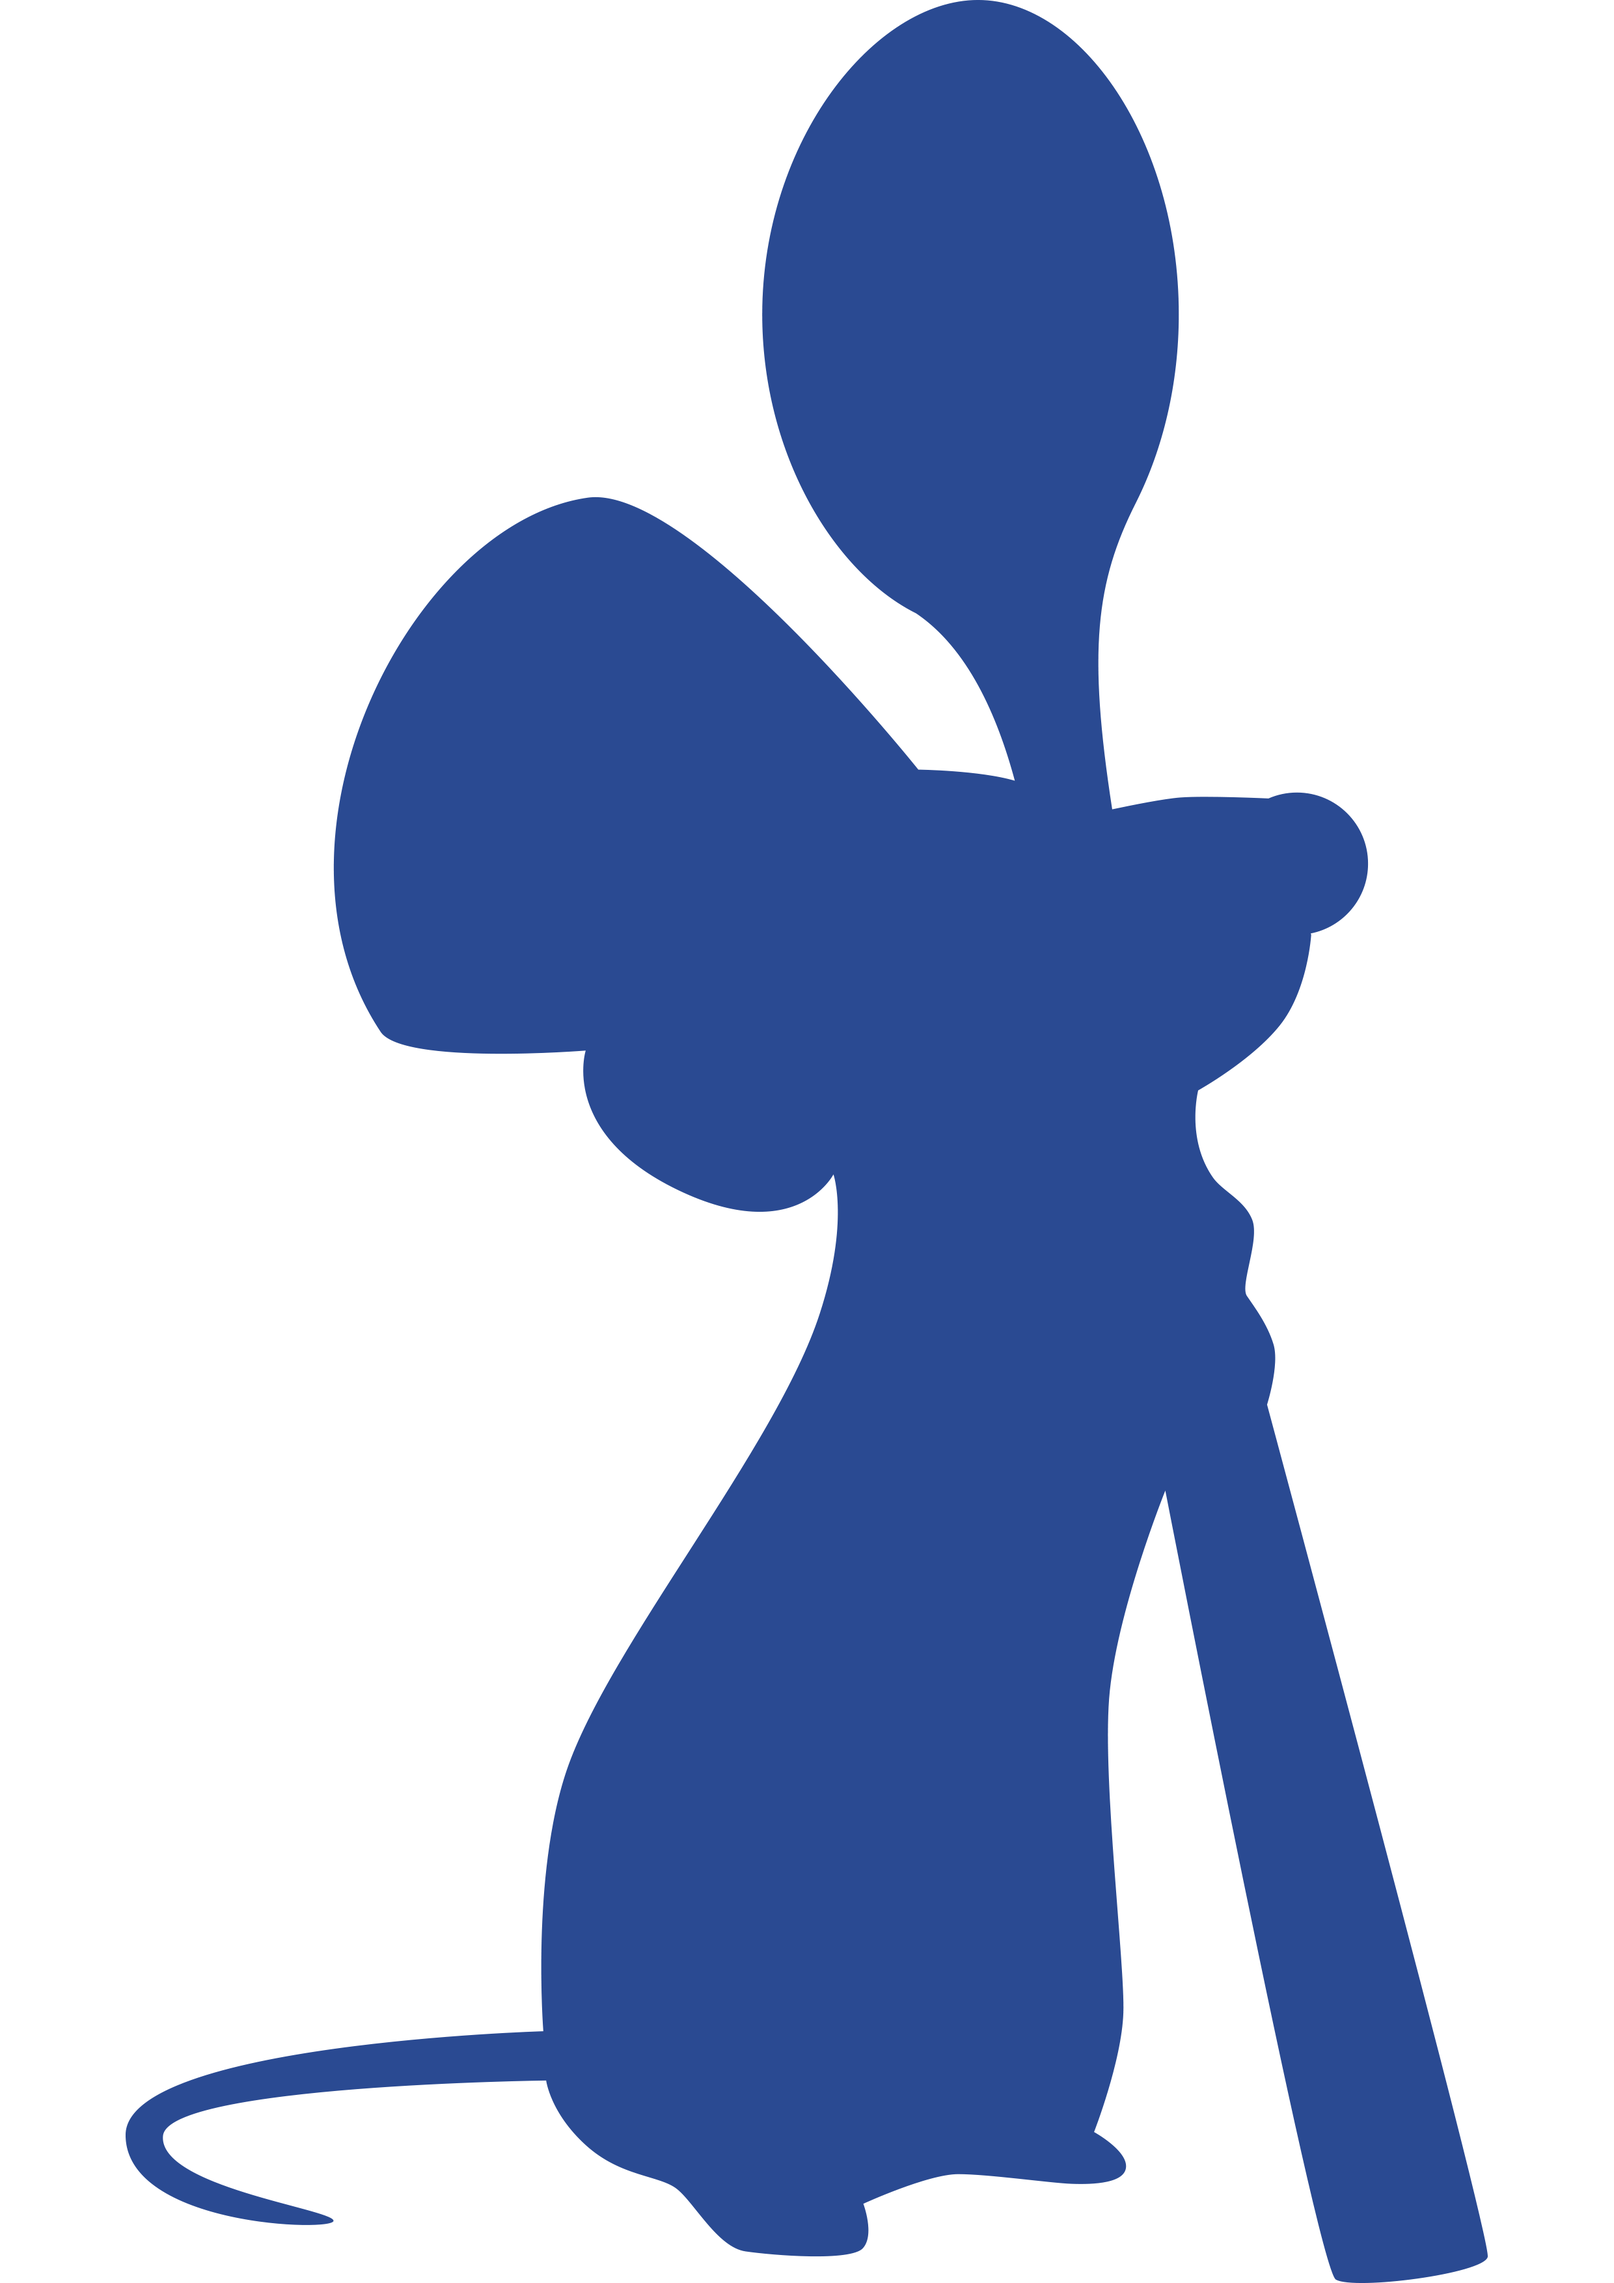
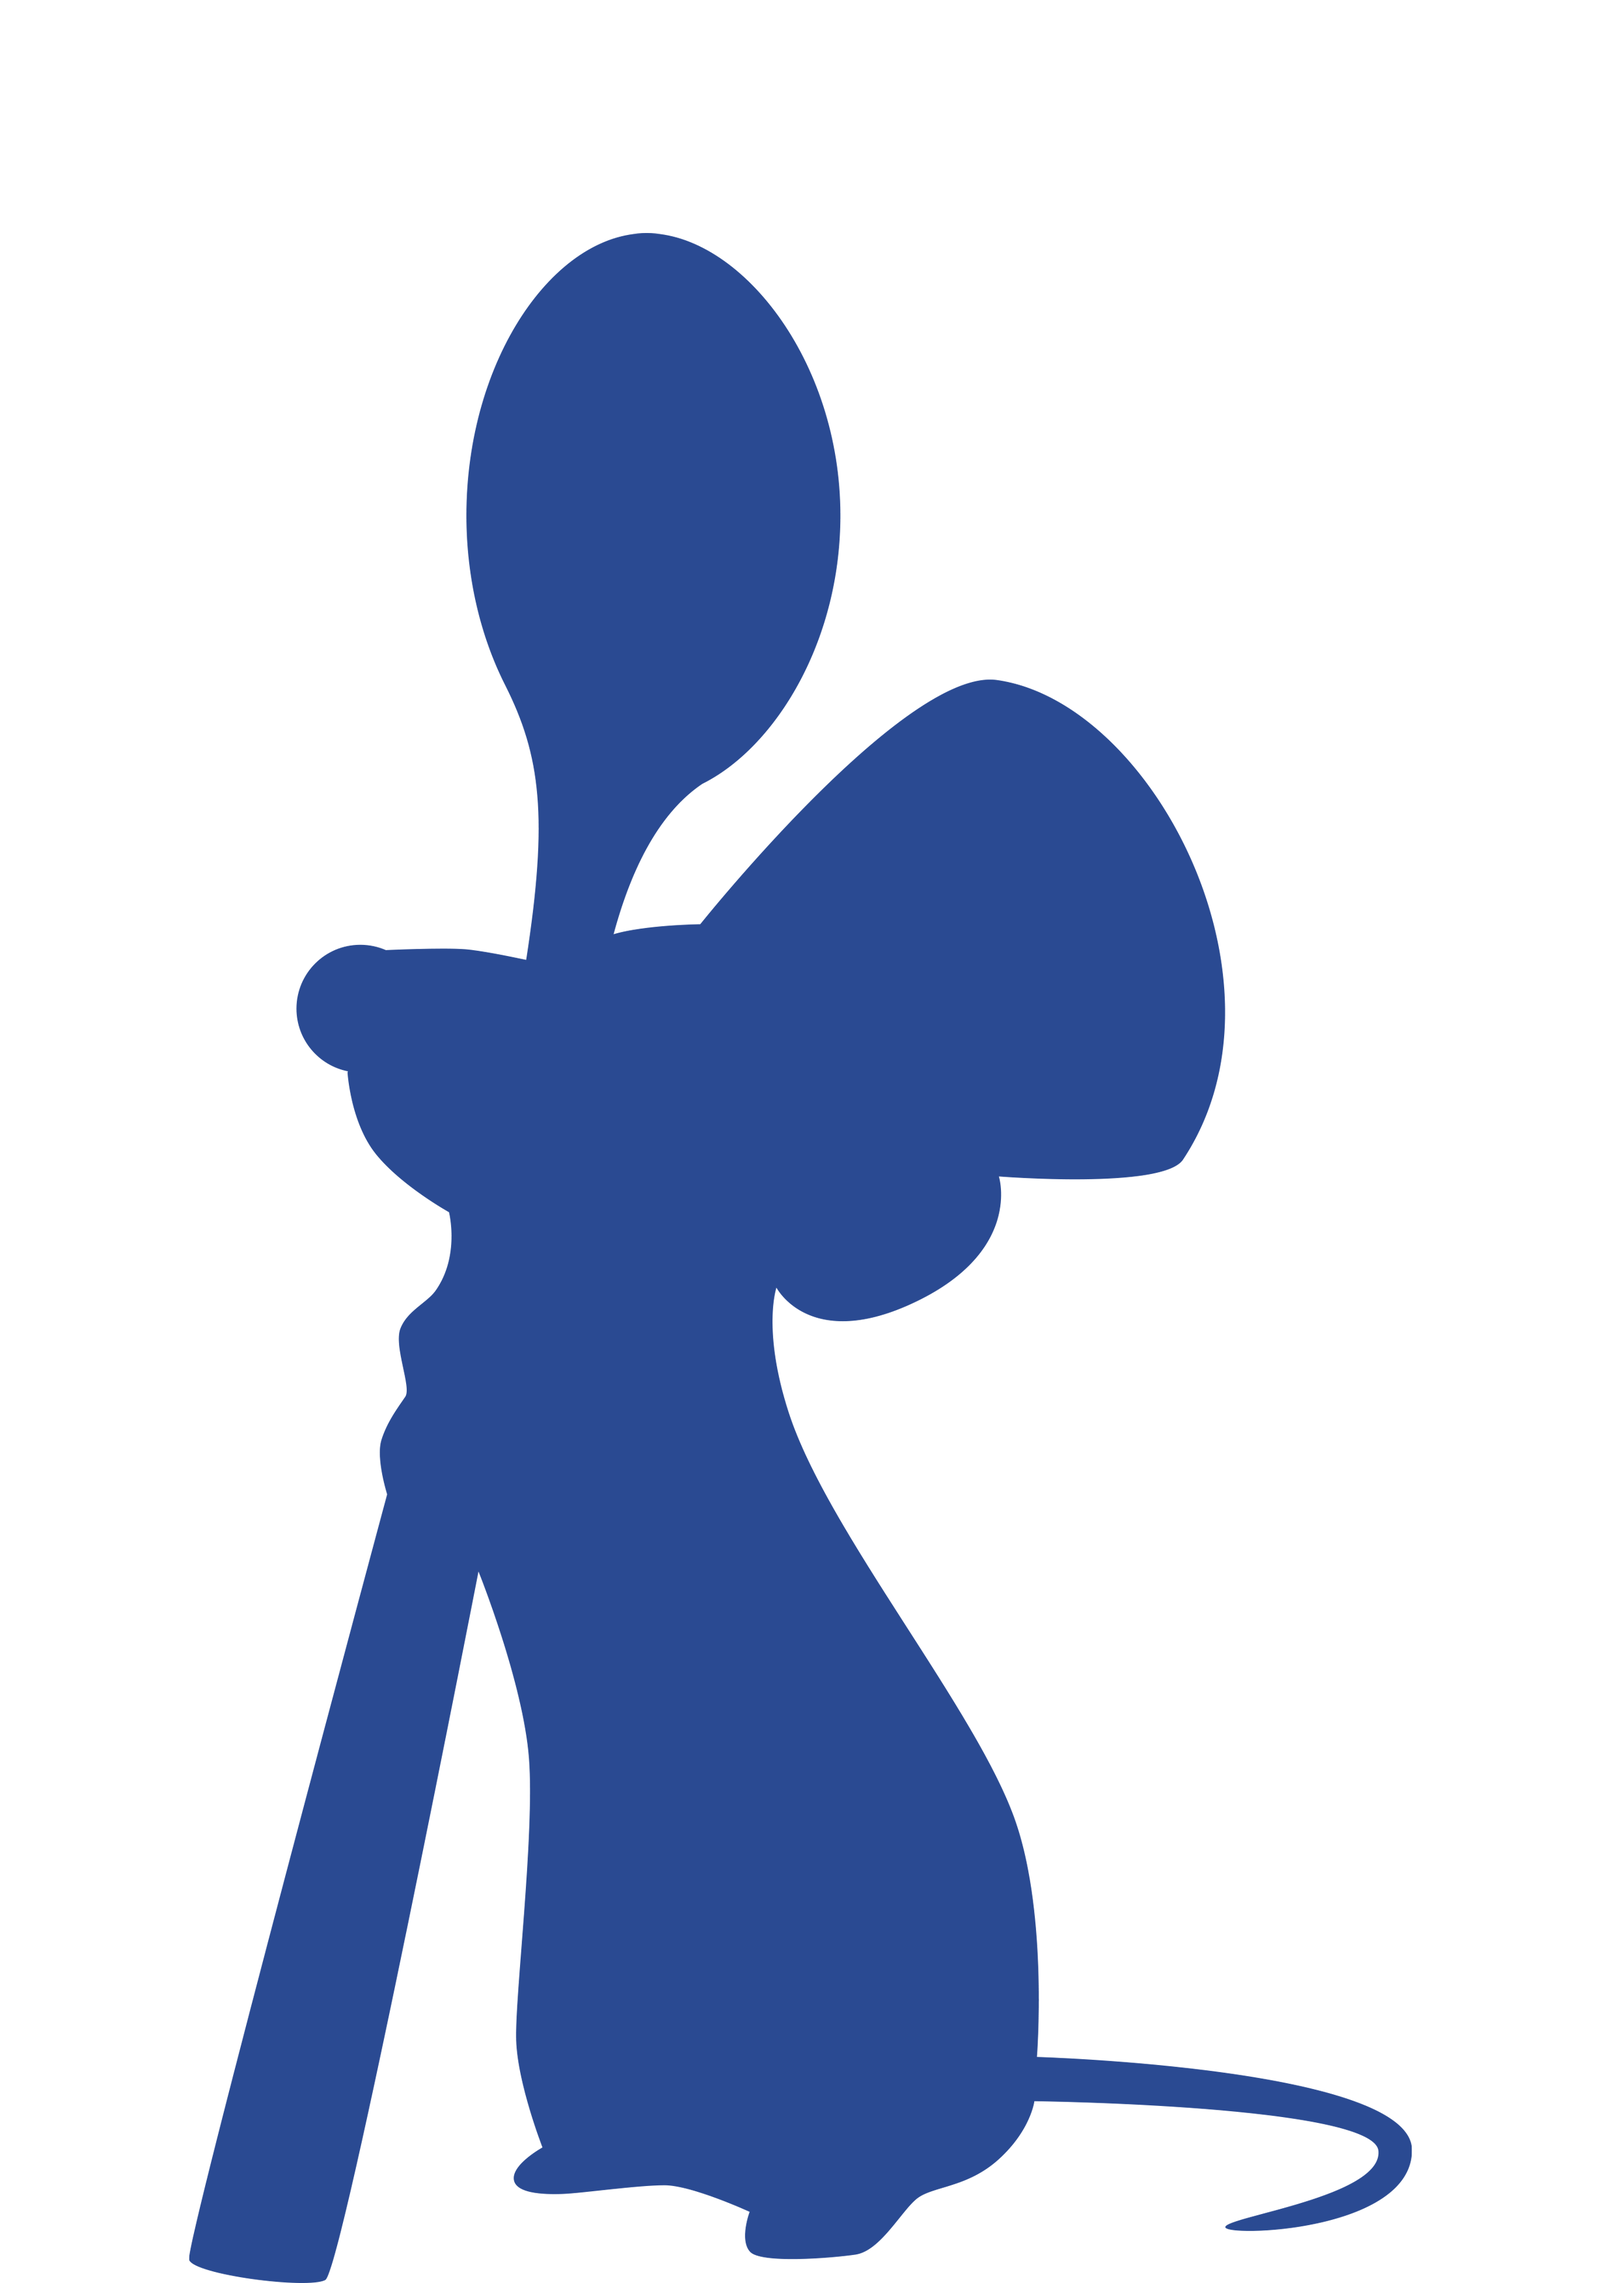
ajout d'image sous le synopsis

Changed region(s): [[0.0621, 0.0, 0.9315, 1.0], [0.5278, 0.9632, 0.5589, 0.9943], [0.4347, 0.9632, 0.4657, 0.9943]]

diff --git a/index.html b/index.html
@@ -37,6 +37,13 @@
           courage d’aller à l’encontre des préjugés de sa famille et des humains 
           pour réaliser son rêve !
         </p>
+        <div class="container">
+          <img src="img/rat3-bleu.png" alt="silouette de rat" class="petite-image">
+          <img src="img/assiette-bleu.png" alt="assiette et couvert" 
+          class="petite-image">
+          <img src="img/remy2-bleu.png" alt="silouette de rat avec une louche" 
+          class="petite-image">
+        </div>
       </div>
       <div class="realisateur">
         <h2 id="realisateur">

diff --git a/css/styles.css b/css/styles.css
@@ -89,3 +89,8 @@ header nav {
   flex-direction: column;
   align-items: center;
 }
+
+main .container {
+  align-items: baseline;
+  justify-content: space-around;
+}
